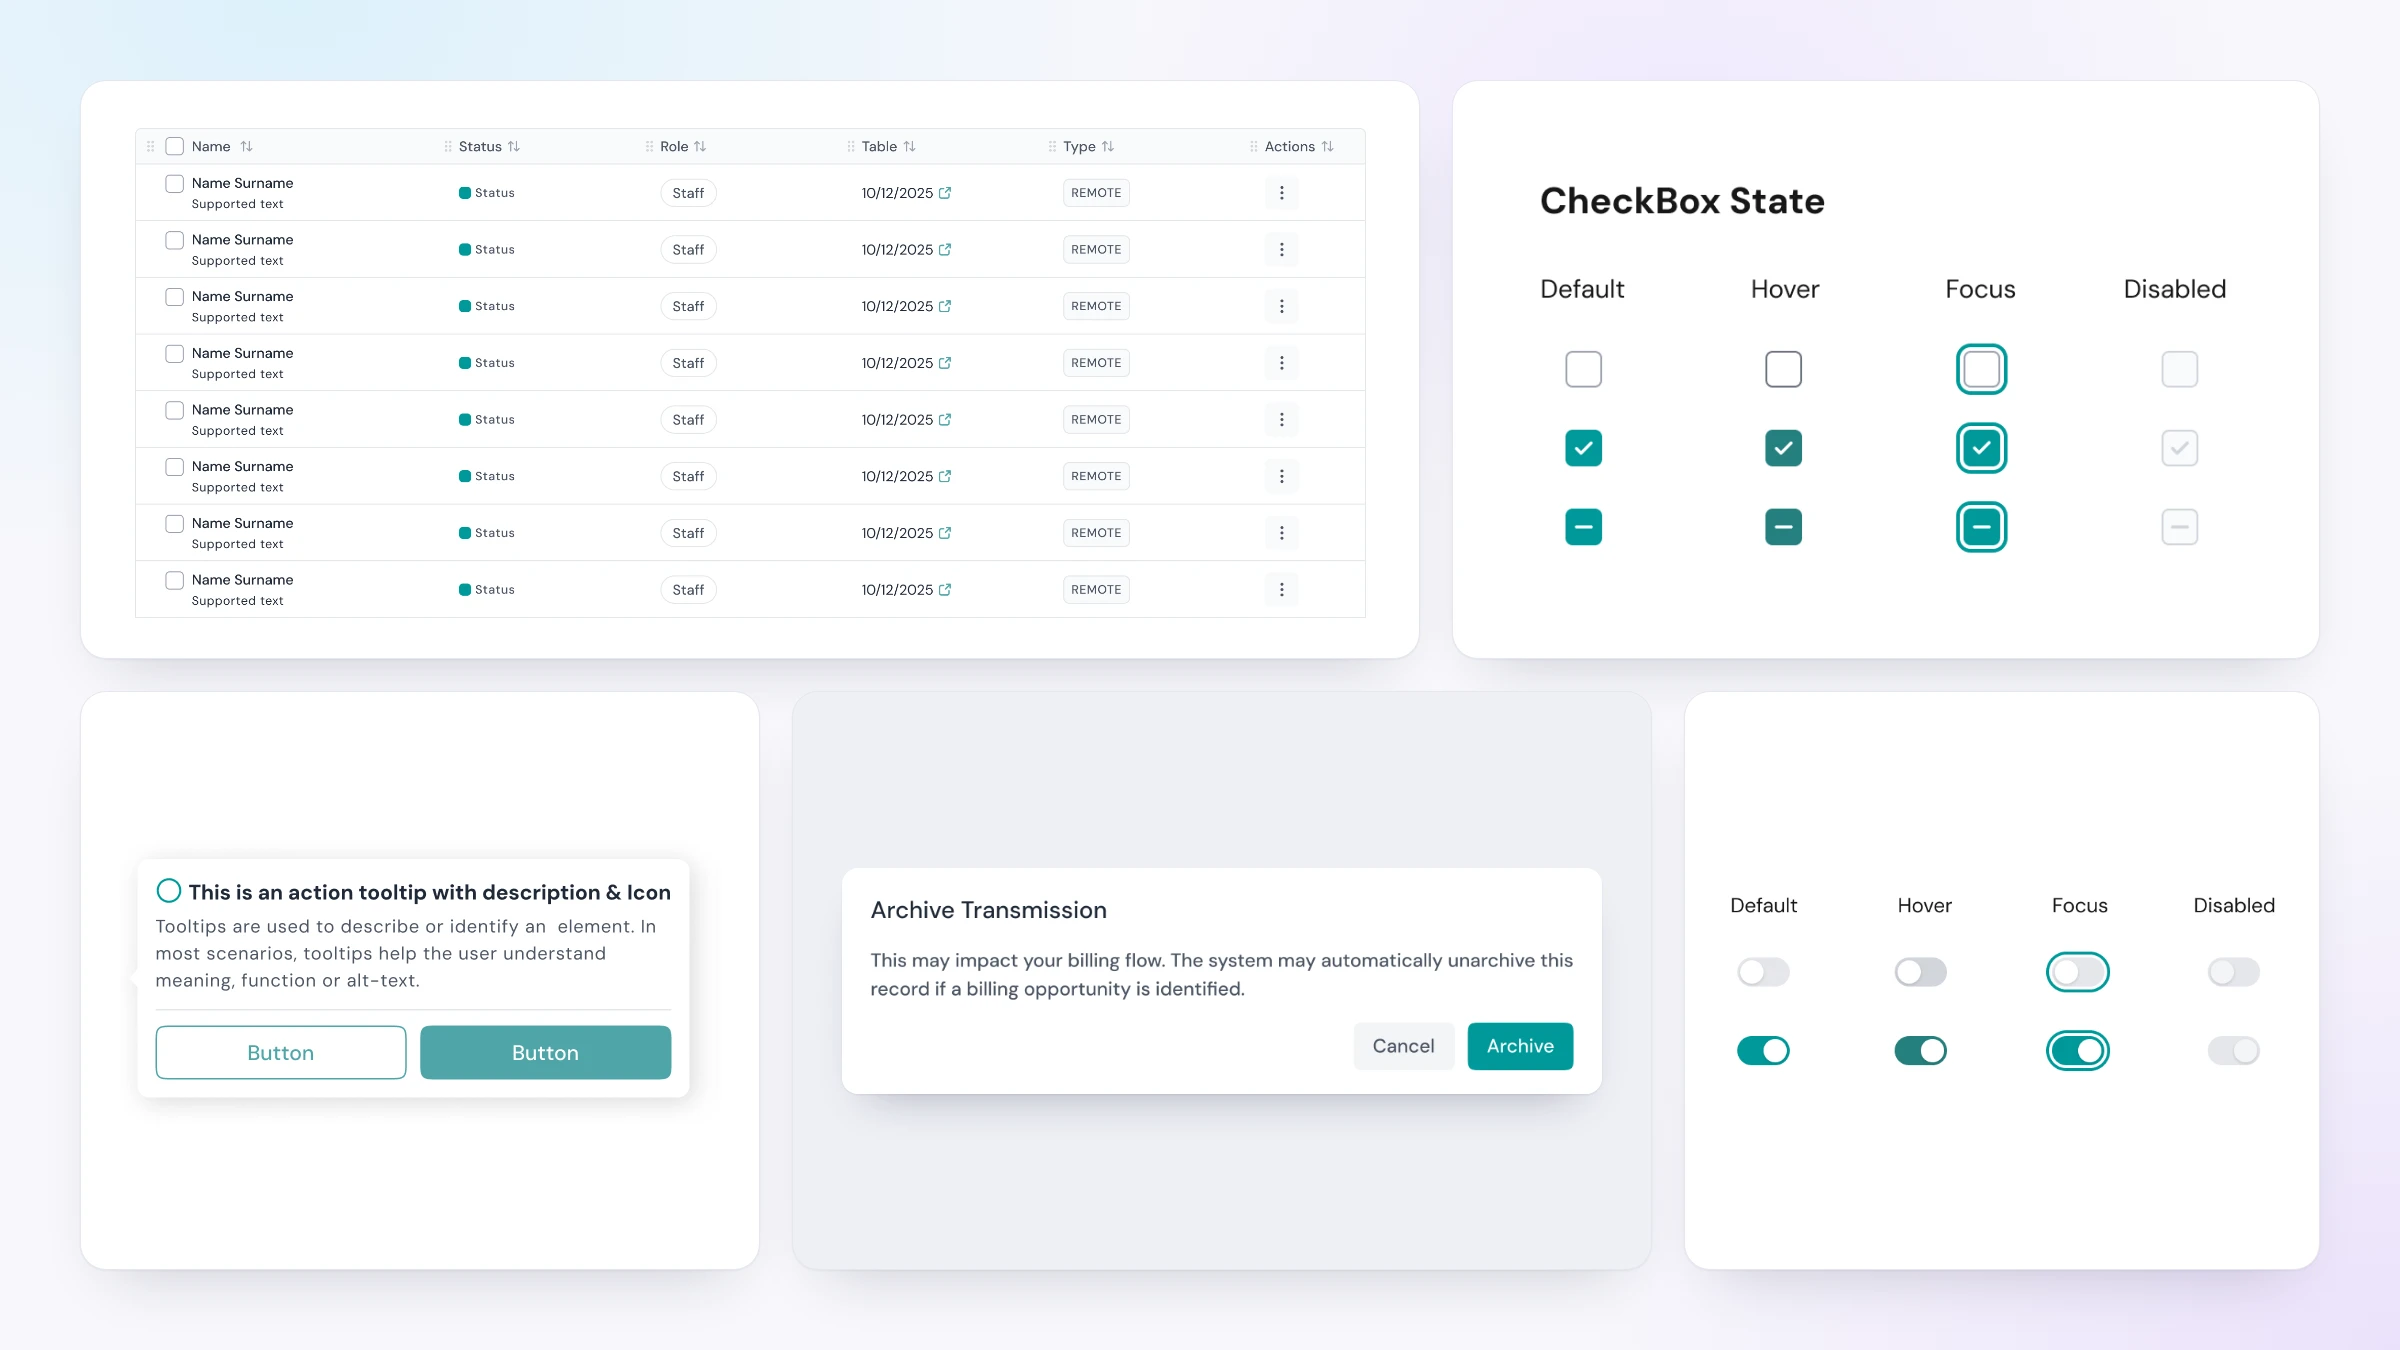
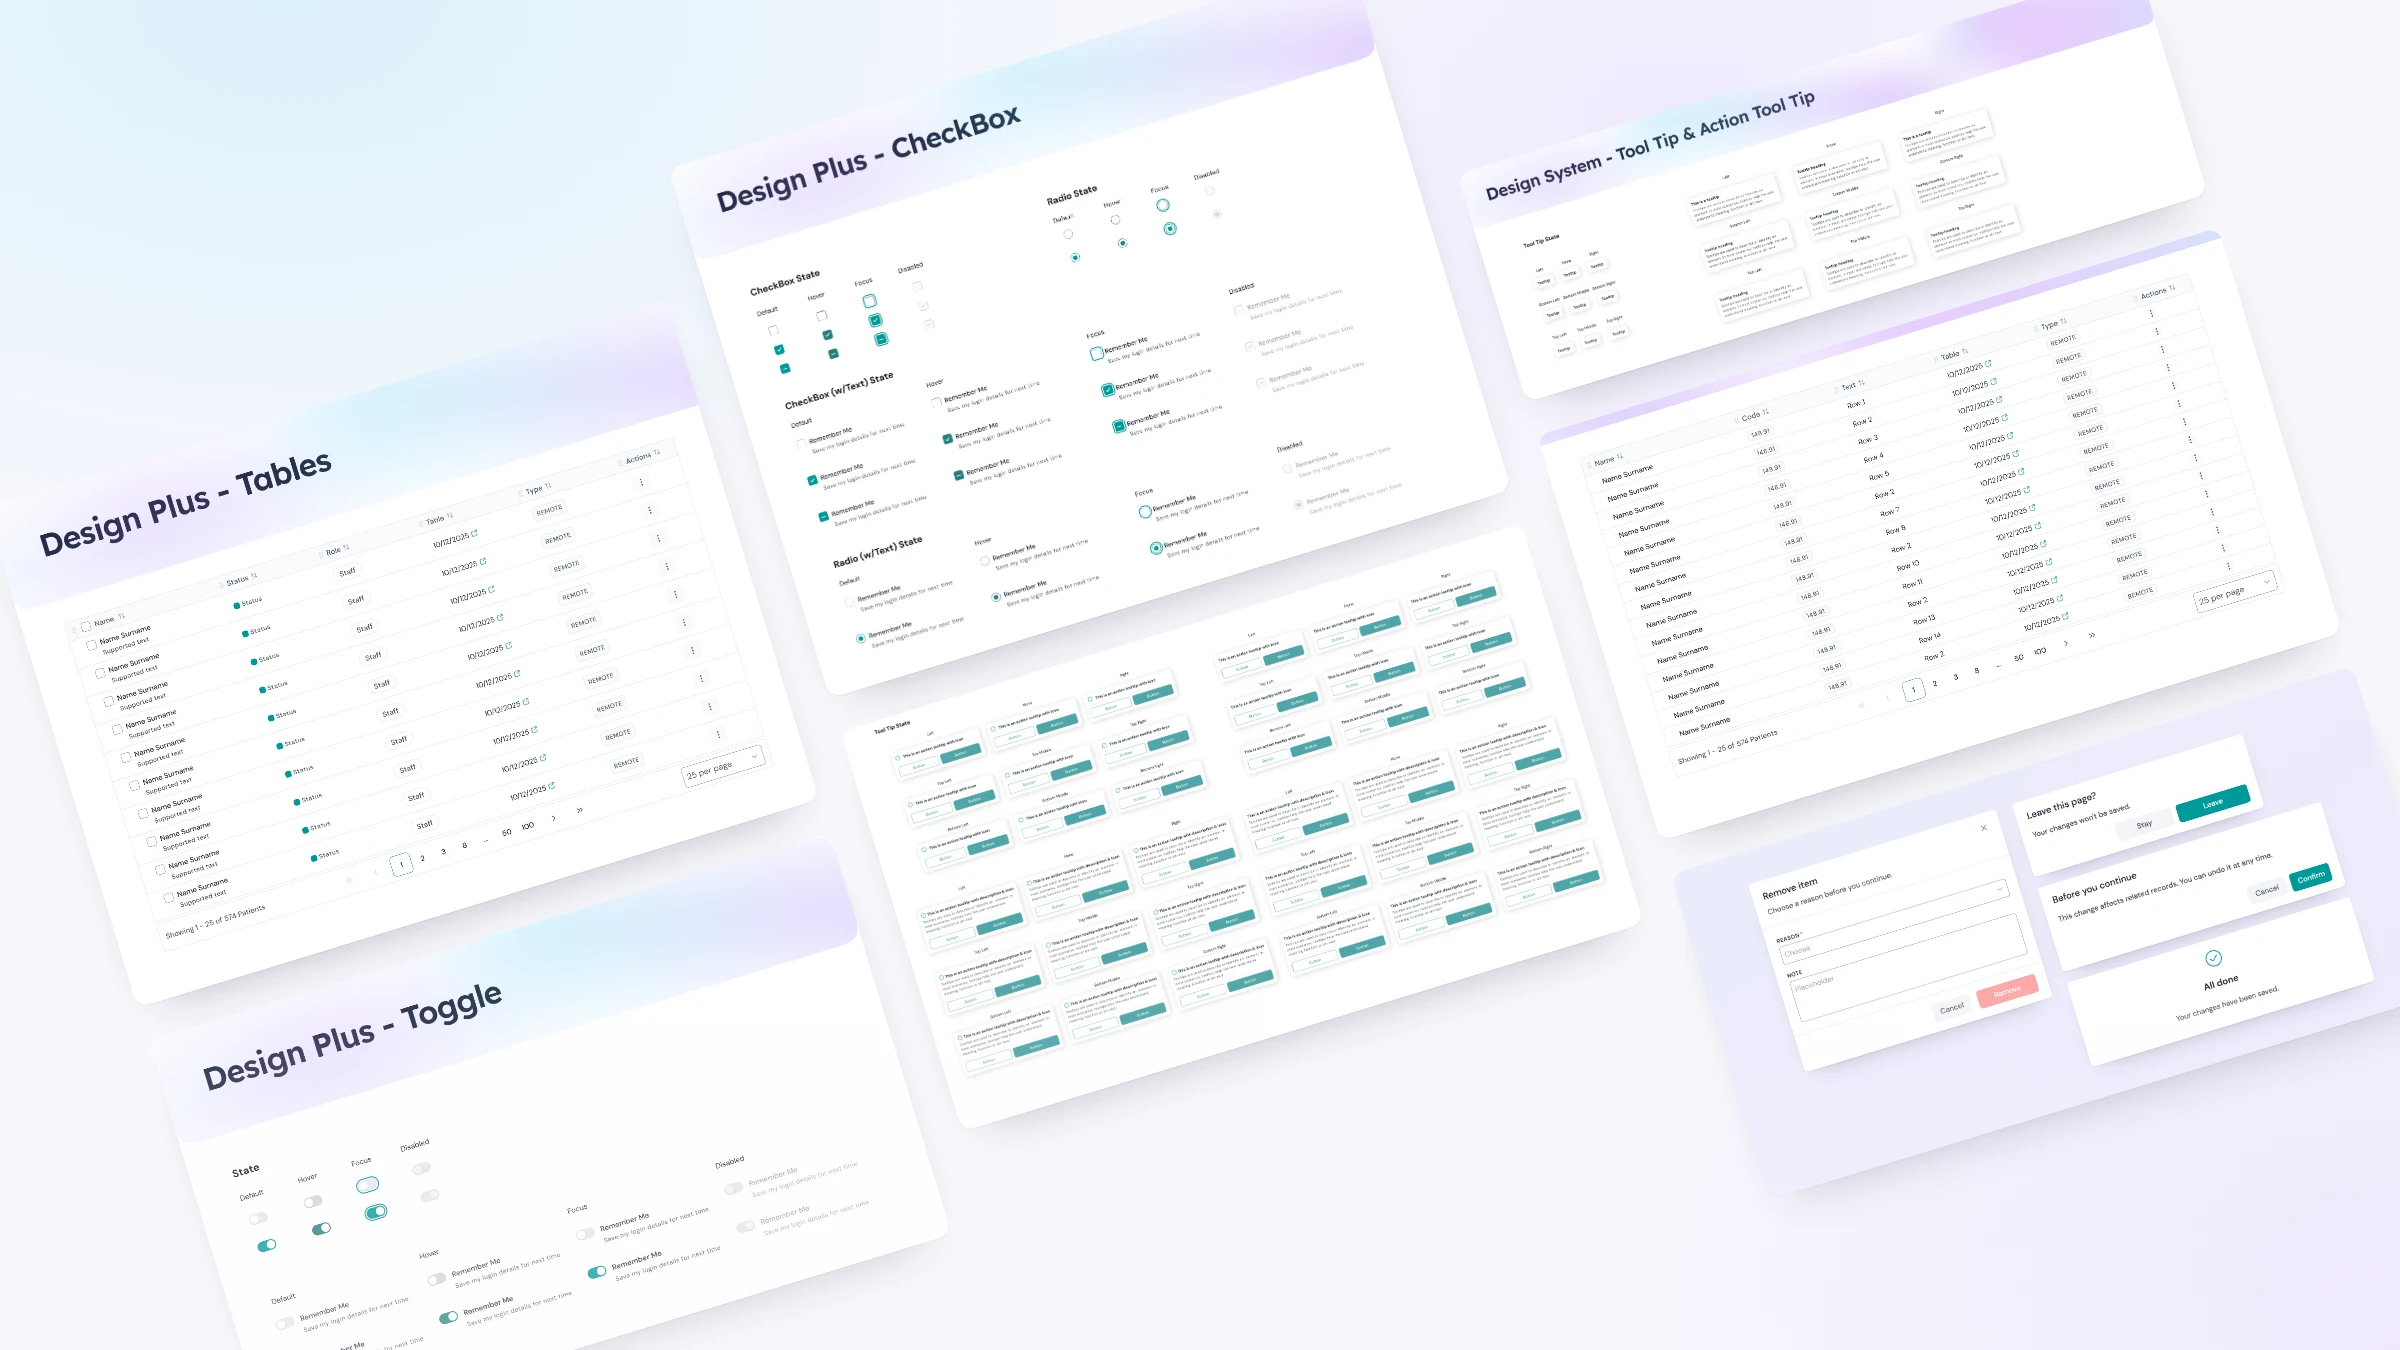
Refresh Design System visuals and use generic modal text
- Header and card image: a tilted board of the component sheets
- Modals: generic placeholder text instead of product wording
- Toggles, tooltips and modals: labelled anatomy images in the
  same style as the table anatomy
- Remove the images that are no longer used

diff --git a/src/content/projects.ts b/src/content/projects.ts
@@ -432,14 +432,14 @@ export const projects: Project[] = [
     tools: ['Figma'],
     thumbnail: {
       src: 'images/projects/design-system/thumbnail.webp',
-      alt: 'Design Plus components: a data table, checkbox states and toggle states',
+      alt: 'Design Plus component sheets on a tilted board: tables, checkboxes, toggles, tooltips and dialogs',
       width: 1600,
       height: 1200,
       aspect: '4 / 3',
     },
     hero: {
       src: 'images/projects/design-system/hero.webp',
-      alt: 'Design Plus components: a data table, checkbox states, an action tooltip, a confirmation dialog and toggle states',
+      alt: 'Design Plus component sheets on a tilted board: tables, checkboxes, toggles, tooltips, action tooltips and dialogs',
       width: 2400,
       height: 1350,
       aspect: '16 / 9',
@@ -565,11 +565,11 @@ export const projects: Project[] = [
               'One Figma component with 16 variants.',
             ],
             media: {
-              src: 'images/projects/design-system/toggle.webp',
-              alt: 'Design Plus toggle sheet: on and off toggles in default, hover, focus and disabled, with and without text',
-              width: 2000,
-              height: 1178,
-              aspect: '2000 / 1178',
+              src: 'images/projects/design-system/toggle-anatomy.webp',
+              alt: 'Toggle anatomy: a large toggle labelled track, thumb and focus ring; a toggle with label and supporting text; and on and off toggles in default, hover, focus and disabled',
+              width: 2400,
+              height: 1260,
+              aspect: '2400 / 1260',
             },
           },
           {
@@ -583,11 +583,11 @@ export const projects: Project[] = [
               'Usage guidance written on the component page, so the team knows when to use each one.',
             ],
             media: {
-              src: 'images/projects/design-system/tooltips.webp',
-              alt: 'Design Plus tooltip and action tooltip sheet showing every arrow position, with and without description, icon and buttons',
+              src: 'images/projects/design-system/tooltip-anatomy.webp',
+              alt: 'Tooltip anatomy: an action tooltip labelled icon, heading, description, secondary and primary action and arrow; a tooltip with a heading; and the nine arrow positions',
               width: 2400,
-              height: 2225,
-              aspect: '2400 / 2225',
+              height: 1300,
+              aspect: '2400 / 1300',
             },
           },
           {
@@ -620,11 +620,11 @@ export const projects: Project[] = [
               'A safeguard for unsaved changes, so edits are never lost by accident.',
             ],
             media: {
-              src: 'images/projects/design-system/modals.webp',
-              alt: 'Four dialogs: marking a patient inactive with a required reason, unsaved changes, an archive warning and an archive confirmation',
+              src: 'images/projects/design-system/modal-anatomy.webp',
+              alt: 'Modal anatomy with placeholder text: a dialog labelled title, description, required and optional fields, close, secondary action and a primary action disabled until complete; plus confirmation, warning and success dialogs',
               width: 2400,
-              height: 1240,
-              aspect: '2400 / 1240',
+              height: 1360,
+              aspect: '2400 / 1360',
             },
           },
         ],
